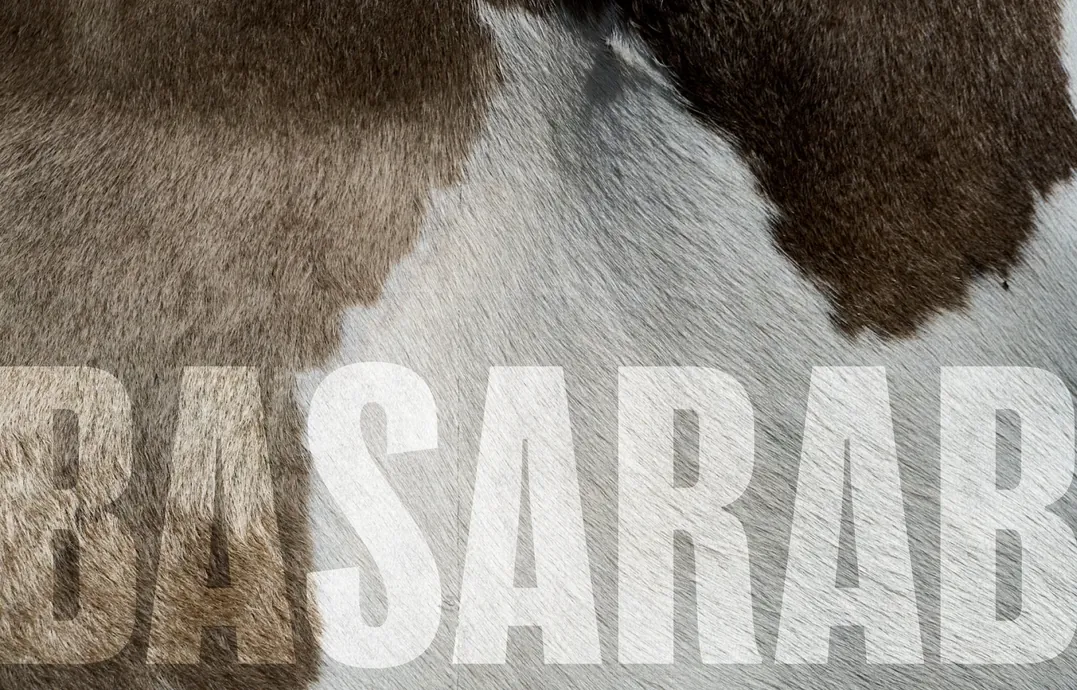
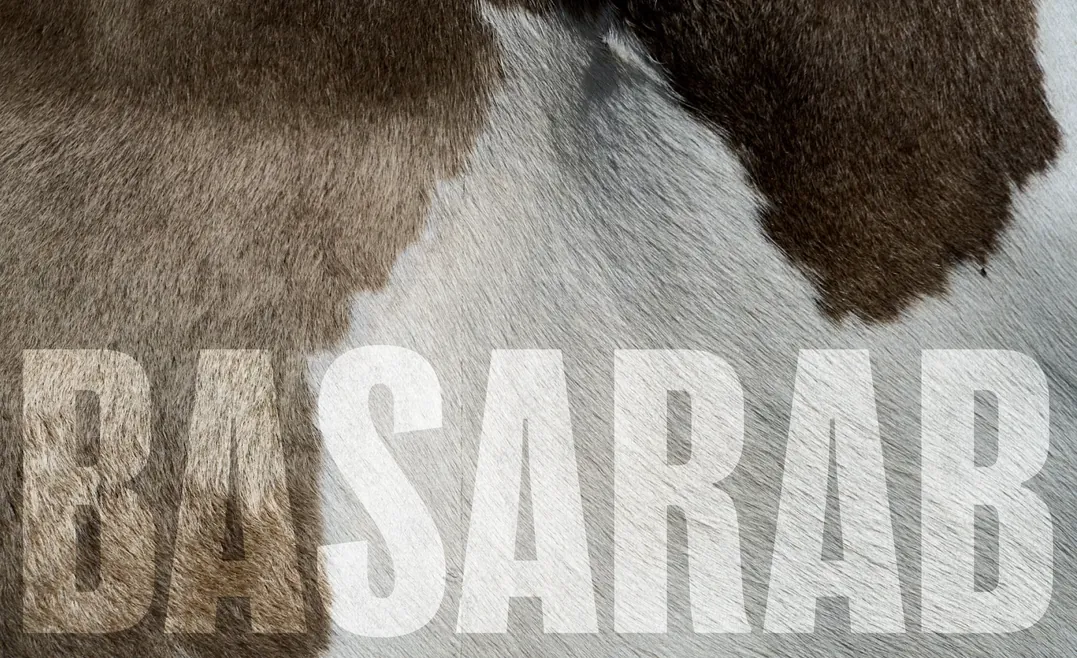
Fix mobile Basarab title font, image crop, leftover RU text and nav
- Title font: mobile heading was inheriting the base .case__intro h2
  font-family (Suisse), never overridden to Oceanic Text -- add it so
  it matches the main page's own mobile badge exactly.
- Second mobile image was center-cropped to fit a 1077x690 slot;
  re-export at the source's own aspect ratio (1077x658, no crop) and
  adjust the card's --mh so nothing gets cut off, matching how the
  desktop image already uses the full uncropped photo.
- Found and fixed a third case__quote--right paragraph (further down
  the case, past where the earlier pass stopped) that still had old
  Russian-only copy with no data-en -- replaced with the desktop's own
  verified EN/RU wording and PDF-confirmed mobile line breaks.
- Removed the old plain "назад/дальше" nav and its top divider line at
  the end of the case now that the new next-project preview replaces it.
- RU quote-about-the-mark: moved "в" down to the next line per feedback.

diff --git a/index.html b/index.html
@@ -2452,6 +2452,7 @@ button.project__media-link {
      standard (see .case__intro/.case__quote below) between a heading
      and the body copy under it. */
   #case-basarab .case__intro h2 {
+    font-family: var(--font-serif);
     font-size: 1.375rem;
     line-height: 1.20;
     margin-bottom: 1.5rem;
@@ -2646,6 +2647,13 @@ button.project__media-link {
     width: 100%;
     height: 100%;
     object-fit: cover;
+  }
+
+  /* The plain "назад/дальше" text nav (and its own top border line)
+     is superseded by the rich .case__next preview above -- hide it so
+     it doesn't show twice at the end of the case. */
+  #case-basarab .case__nav--mobile {
+    display: none;
   }
 }
 </style>
@@ -2952,7 +2960,7 @@ button.project__media-link {
       </div>
     </div>
 
-    <div class="case__media reveal" style="--mh:14.375rem"><img loading="lazy" src="images/basarab-02.webp" alt="" width="2030" height="1240" /><img loading="lazy" class="case__media-mobile" src="images/basarab-m02.webp" alt="" width="1077" height="690" /></div>
+    <div class="case__media reveal" style="--mh:13.708rem"><img loading="lazy" src="images/basarab-02.webp" alt="" width="2030" height="1240" /><img loading="lazy" class="case__media-mobile" src="images/basarab-m02.webp" alt="" width="1077" height="658" /></div>
 
     <p class="case__quote case__quote-p--desktop reveal" data-en="The logotype is built on a bold, expressive grotesque, &lt;br&gt;where monumental letterforms meet soft curves and &lt;br&gt;eye-catching details. In that contrast, both classic &lt;br&gt;restraint and a bold character come through." data-ru="В основе логотипа яркий, выразительный гротеск, &lt;br&gt;в котором монументальность формы сочетается &lt;br&gt;с мягкими изгибами и цепляющими взгляд деталями. &lt;br&gt;В этом контрасте читаются и классическая &lt;br&gt;сдержанность, и яркий характер.">The logotype is built on a bold, expressive grotesque, <br>where monumental letterforms meet soft curves and <br>eye-catching details. In that contrast, both classic <br>restraint and a bold character come through.</p>
     <p class="case__quote case__quote-p--mobile reveal" data-en="The logotype is built on a bold, expressive&lt;br&gt;grotesque, where monumental letterforms&lt;br&gt;meet soft curves and eye-catching details.&lt;br&gt;In that contrast, both classic restraint and&lt;br&gt;a bold character come through." data-ru="В основе логотипа яркий, выразительный&lt;br&gt;гротеск, в котором монументальность&lt;br&gt;формы сочетается с мягкими изгибами&lt;br&gt;и цепляющими взгляд деталями. В этом&lt;br&gt;контрасте читаются и классическая&lt;br&gt;сдержанность, и яркий характер.">The logotype is built on a bold, expressive<br>grotesque, where monumental letterforms<br>meet soft curves and eye-catching details.<br>In that contrast, both classic restraint and<br>a bold character come through.</p>
@@ -2963,7 +2971,7 @@ button.project__media-link {
     </div>
 
     <p class="case__quote case__quote--right case__quote-p--desktop reveal" data-en="When developing the mark, we considered several &lt;br&gt;options and settled on one whose geometry stands &lt;br&gt;clearly apart from the typographic part, allowing &lt;br&gt;it to work as a standalone element of the identity." data-ru="При разработке знака мы рассмотрели несколько &lt;br&gt;вариантов и остановились на том, который по своей &lt;br&gt;геометрии заметно отличается от типографической &lt;br&gt;части, благодаря чему он может выступать в качестве &lt;br&gt;самостоятельного элемента айдентики.">When developing the mark, we considered several <br>options and settled on one whose geometry stands <br>clearly apart from the typographic part, allowing <br>it to work as a standalone element of the identity.</p>
-    <p class="case__quote case__quote--right case__quote-p--mobile reveal" data-en="When developing the mark, we considered&lt;br&gt;several options and settled on one whose&lt;br&gt;geometry stands clearly apart from the&lt;br&gt;typographic part, allowing it to work&lt;br&gt;as a standalone element of the identity." data-ru="При разработке знака мы рассмотрели&lt;br&gt;несколько вариантов и остановились на том,&lt;br&gt;который по своей геометрии заметно&lt;br&gt;отличается от типографической части,&lt;br&gt;благодаря чему он может выступать в&lt;br&gt;качестве самостоятельного элемента&lt;br&gt;айдентики.">When developing the mark, we considered<br>several options and settled on one whose<br>geometry stands clearly apart from the<br>typographic part, allowing it to work<br>as a standalone element of the identity.</p>
+    <p class="case__quote case__quote--right case__quote-p--mobile reveal" data-en="When developing the mark, we considered&lt;br&gt;several options and settled on one whose&lt;br&gt;geometry stands clearly apart from the&lt;br&gt;typographic part, allowing it to work&lt;br&gt;as a standalone element of the identity." data-ru="При разработке знака мы рассмотрели&lt;br&gt;несколько вариантов и остановились на том,&lt;br&gt;который по своей геометрии заметно&lt;br&gt;отличается от типографической части,&lt;br&gt;благодаря чему он может выступать&lt;br&gt;в качестве самостоятельного элемента&lt;br&gt;айдентики.">When developing the mark, we considered<br>several options and settled on one whose<br>geometry stands clearly apart from the<br>typographic part, allowing it to work<br>as a standalone element of the identity.</p>
 
     <div class="case__row reveal">
       <div class="case__media" style="--mh:21.25rem"><img loading="lazy" src="images/basarab-05.webp" alt="" width="337" height="427" /><img loading="lazy" class="case__media-mobile" src="images/basarab-m05.webp" alt="" width="1077" height="1020" /></div>
@@ -3042,7 +3050,7 @@ button.project__media-link {
     <div class="case__media reveal" style="--mh:14.375rem"><img loading="lazy" src="images/basarab-29.webp" alt="" width="2030" height="1240" /><img loading="lazy" class="case__media-mobile" src="images/basarab-m19.webp" alt="" width="1077" height="690" /></div>
 
     <p class="case__quote case__quote--right case__quote-p--desktop reveal" data-en="Over time, the business outgrew the format &lt;br&gt;of a footwear brand and began producing clothing &lt;br&gt;and accessories. We designed the visual touchpoints &lt;br&gt;and prepared the technical materials to bring every &lt;br&gt;idea to life within the identity we'd created." data-ru="Со временем бизнес перерос формат обувного &lt;br&gt;бренда и начал выпускать одежду, аксессуары. Мы &lt;br&gt;разработали дизайн всех носителей и подготовили &lt;br&gt;технические материалы для реализации всех идей &lt;br&gt;в рамках созданной айдентики.">Over time, the business outgrew the format <br>of a footwear brand and began producing clothing <br>and accessories. We designed the visual touchpoints <br>and prepared the technical materials to bring every <br>idea to life within the identity we'd created.</p>
-    <p class="case__quote case__quote--right case__quote-p--mobile reveal">Со временем бизнес перерос формат <br>обувного бренда и начал выпускать одежду, <br>аксессуары. Мы разрабатывали дизайн <br>носителей и готовили технические <br>материалы для реализации всех идей <br>в рамках созданной айдентики.</p>
+    <p class="case__quote case__quote--right case__quote-p--mobile reveal" data-en="Over time, the business outgrew the format&lt;br&gt;of a footwear brand and began producing&lt;br&gt;clothing and accessories. We designed the&lt;br&gt;visual touchpoints and prepared the technical&lt;br&gt;materials to bring every idea to life within the&lt;br&gt;identity we'd created." data-ru="Со временем бизнес перерос формат&lt;br&gt;обувного бренда и начал выпускать одежду,&lt;br&gt;аксессуары. Мы разработали дизайн всех&lt;br&gt;носителей и подготовили технические&lt;br&gt;материалы для реализации всех идей&lt;br&gt;в рамках созданной айдентики.">Over time, the business outgrew the format<br>of a footwear brand and began producing<br>clothing and accessories. We designed the<br>visual touchpoints and prepared the technical<br>materials to bring every idea to life within the<br>identity we'd created.</p>
 
     <div class="case__media reveal" style="--mh:14.375rem"><img loading="lazy" src="images/basarab-30.webp" alt="Ladieswear" width="2030" height="1240" /><img loading="lazy" class="case__media-mobile" src="images/basarab-m20.webp" alt="Ladieswear" width="1077" height="690" /></div>
 
